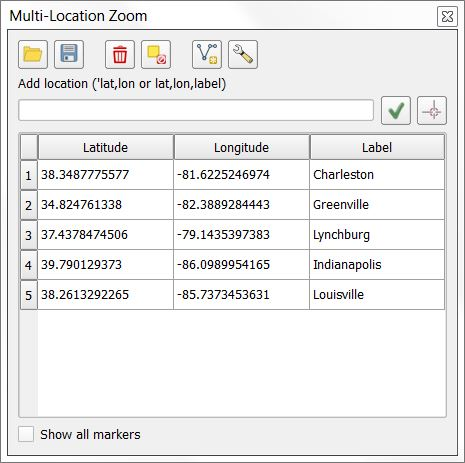
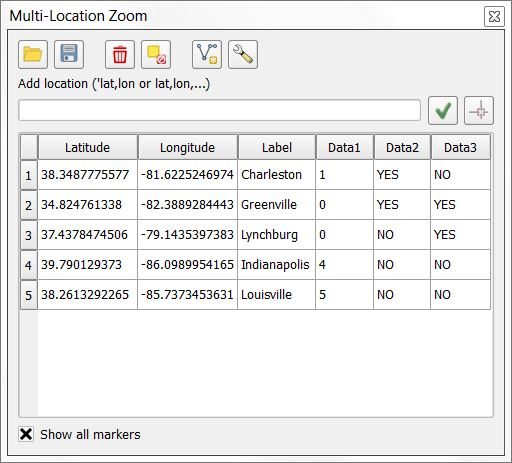
documentation updated for latest release

Changed region(s): [[0.0, 0.0, 0.9935, 0.9676], [0.6022, 0.6048, 0.6323, 0.6652]]

diff --git a/readme.md b/readme.md
@@ -17,11 +17,11 @@
     * Example MGRS coordinate when **Zoom to Coordinate Type** is set to ***MGRS***: 15S UD 03704 14710
 
 * <img src="images/mapicon.png" alt="Show in External Map"> ***Show in External Map*** - With this tool, the user can click on the QGIS map which launches an external browser and displays the location on an external map. Currently Open Street Map, Google Maps, and Bing Maps are supported. The desired map can be configured in **Settings**.
-* <img src="images/multizoom.png" alt="Multi-location Zoom"> ***Multi-location Zoom*** - Here the user can define a set of quick zoom-to locations. The user can also paste or type in a coordinate in the ***Add location*** box and add it to the list.  When the user clicks on a list location, QGIS centers the map on the location and highlights it. Double clicking on a **Label** cell allows the text to be edited. The following are additional functions.
+* <img src="images/multizoom.png" alt="Multi-location Zoom"> ***Multi-location Zoom*** - Here the user can define a set of quick zoom-to locations. The user can also paste or type in a coordinate in the ***Add location*** box and add it to the list.  When the user clicks on a list location, QGIS centers the map on the location and highlights it. Double clicking on a **Label** or **Data** cell allows the text to be edited. By default the **Data** fields will not be visible, but can be added from ***Settings***. The following are additional functions.
     * <img src="doc/open.png" alt="Open"> ***Open Location List*** reads in a set of coordinates that are comma separated with an optional label. There should only be one location per line and formatted as **"latitude,longitude,label"** or **"latitude,longitude"**.
     * <img src="doc/save.png" alt="Save"> ***Save Location List*** saves all of the zoom-to entries in a .csv file, formatted as **"latitude,longitude,label"**.
     * <img src="doc/delete.png" alt="Delete"> ***Delete Selected Location*** removes the selected location. 
-    * <img src="doc/deleteall.png" alt="Clear All"> ***Clear All Locations*** removes all of the list entries.
+    * <img src="doc/deleteall.png" alt="Clear All"> ***Clear All Locations*** removes all of the list locations.
     * <img src="doc/newlayer.png" alt="New"> ***Create Vector Layer From Location List*** creates a memory layer out of the zoom-to locations. 
     * <img src="doc/settings.png" alt="Settings"> ***Show Style Settings*** chooses a style for the layer created from the create layer button. This displays the **Settings** dialog box.
     * <img src="images/coordinate_capture.png" alt="Start capture"> ***Start Capture*** enables the user to click on the map to capture coordinates directly to the list.
@@ -116,13 +116,14 @@ Here you can ***Select an External Map Provider***. The options are:
 * **Show placemark** - When checked the external map shows a placemark at the location clicked on in the QGIS map. If this is not checked then the external map centers itself around clicked location, but will not display the placemark.
 * **Map Zoom Level** - This is the desired default zoom level in the external map when it is launched.
 
-### Multi-zoom Settings
+### Multi-location Zoom Settings
 
-![Multi-zoom Settings](doc/settings4.jpg)
+![Multi-location Zoom Settings](doc/settings4.jpg)
 
-Here the user can specify a style for the multi-zoom to create layer. It can be a simple default style, default with labels, or a .qml style file that contains advanced styling.  
+These are setting for the Multi-location zoom dialog box. The user can specify a style when creating a layer from the zoom locations. It can be a simple default style, default with labels, or a .qml style file that contains advanced styling. The user can choose up to 10 additional data fields.
 
-* ***Default style for multi-zoom new layers*** determins the new layer style when ***Create Vector Layer Fron Location List*** is clicked on. The options are:
+* ***Default style for multi-location zoom new layers*** determins the new layer style when ***Create Vector Layer Fron Location List*** is clicked on. The options are:
     * ***Default*** - No style is applied.
     * ***Label*** - The newly created layer will have labels next to the points.
     * ***Custom*** - The user can create a QGIS .qml file that contains style infomation on how to style the new layer. If this is configured, then this will apply this style to the new layer.
+* ***Number of extra data fields*** - Besides *Latitude*, *Longitude*, and *Label*, the user can add up to 10 additional data fields which are labeled as *Data1*, *Data2*, ... *Data10*. By default this is set to 0.
